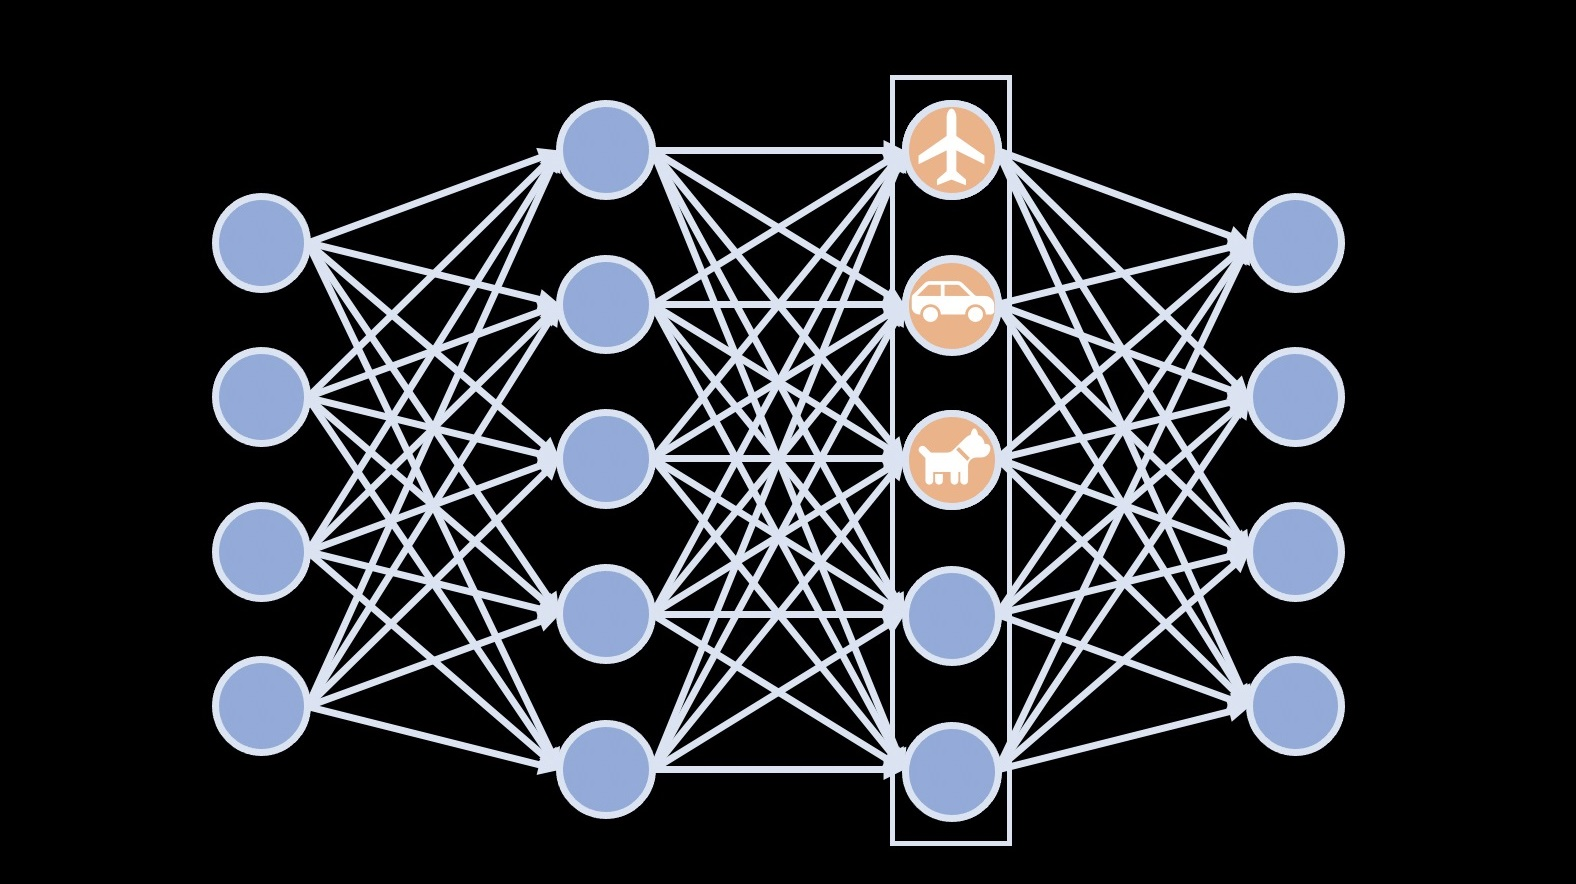
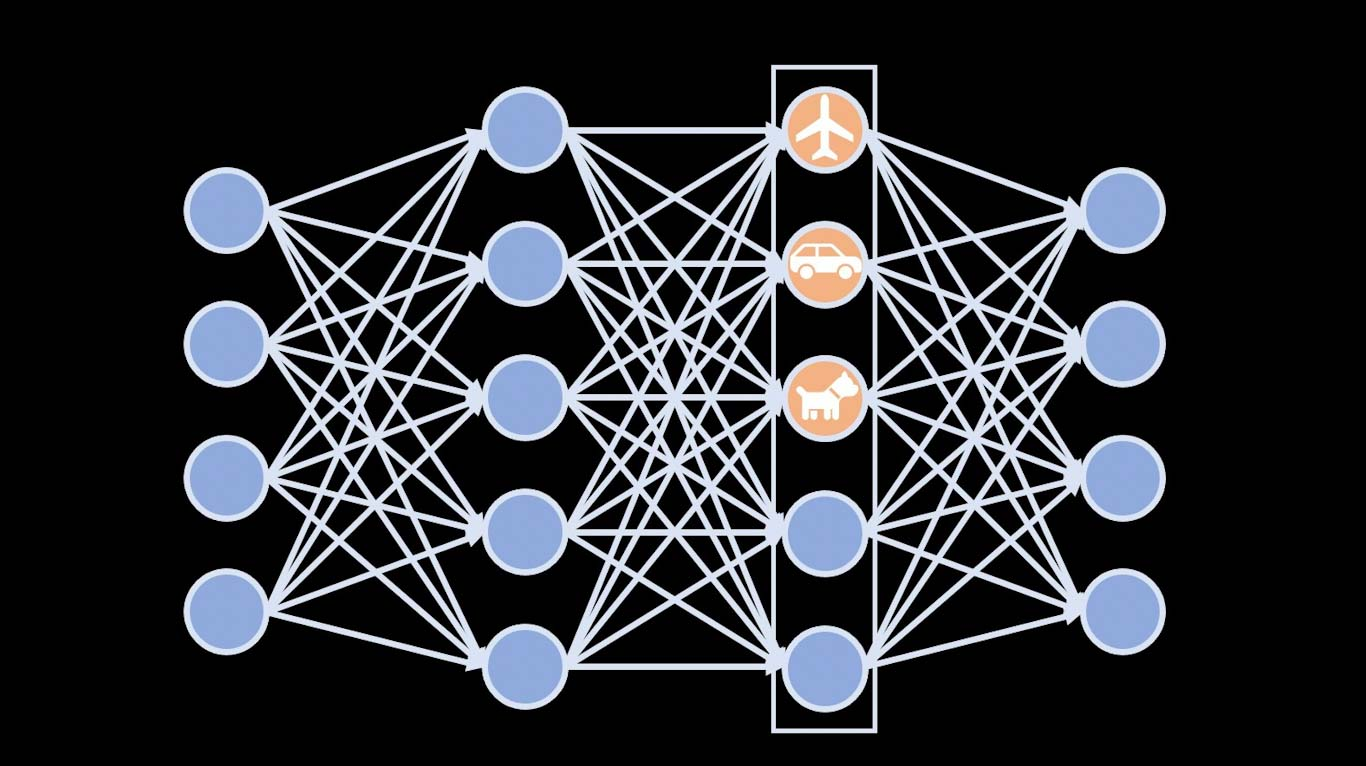
Decreased image sizes

Changed region(s): [[0.6149, 0.9308, 0.6457, 0.9608], [0.5227, 0.6906, 0.5534, 0.7206]]

diff --git a/index.html b/index.html
@@ -394,7 +394,7 @@
                       </figure></a></div>
 
                       <div class="cc-porfolio-image img-raised" data-aos="fade-up" data-aos-anchor-placement="top-bottom"><a href="https://github.com/Danial-Kord/AI_Cource_Projects">
-                        <figure class="cc-effect"><img class="img-fluid" src="images/2019_03_02_66706_1551461528._large.jpg" alt="Image"/>
+                        <figure class="cc-effect"><img class="img-fluid" src="images/book.jpg" alt="Image"/>
                           <figcaption>
                             <div class="h4 mt-3">Poem writer detector</div>
                             <p>
@@ -417,7 +417,7 @@
                           </figure></a></div>
 
                           <div class="cc-porfolio-image img-raised" data-aos="fade-up" data-aos-anchor-placement="top-bottom"><a href="">
-                            <figure class="cc-effect"><img src="images/tanks.png" alt="Image"/>
+                            <figure class="cc-effect"><img src="images/tanks.jpg" alt="Image"/>
                               <figcaption>
                                 <div class="h4 mt-3">JNormal Tanks</div>
                                 <p> My Final project in Advance programming course and My first ever made game!
@@ -429,7 +429,7 @@
             <div class="col-md-6">
 
               <div class="cc-porfolio-image img-raised" data-aos="fade-up" data-aos-anchor-placement="top-bottom"><a href="https://github.com/Danial-Kord/Artificial-Intelligence-Visualization">
-                <figure class="cc-effect"><img src="images/AI_Visual.png" alt="Image"/>
+                <figure class="cc-effect"><img src="images/AI_Visual.jpg" alt="Image"/>
                   <figcaption>
                     <div class="h4 mt-3">AI Visualization</div>
                     <p>My experience in creating visual content during my teaching assistant position in the AI course.
